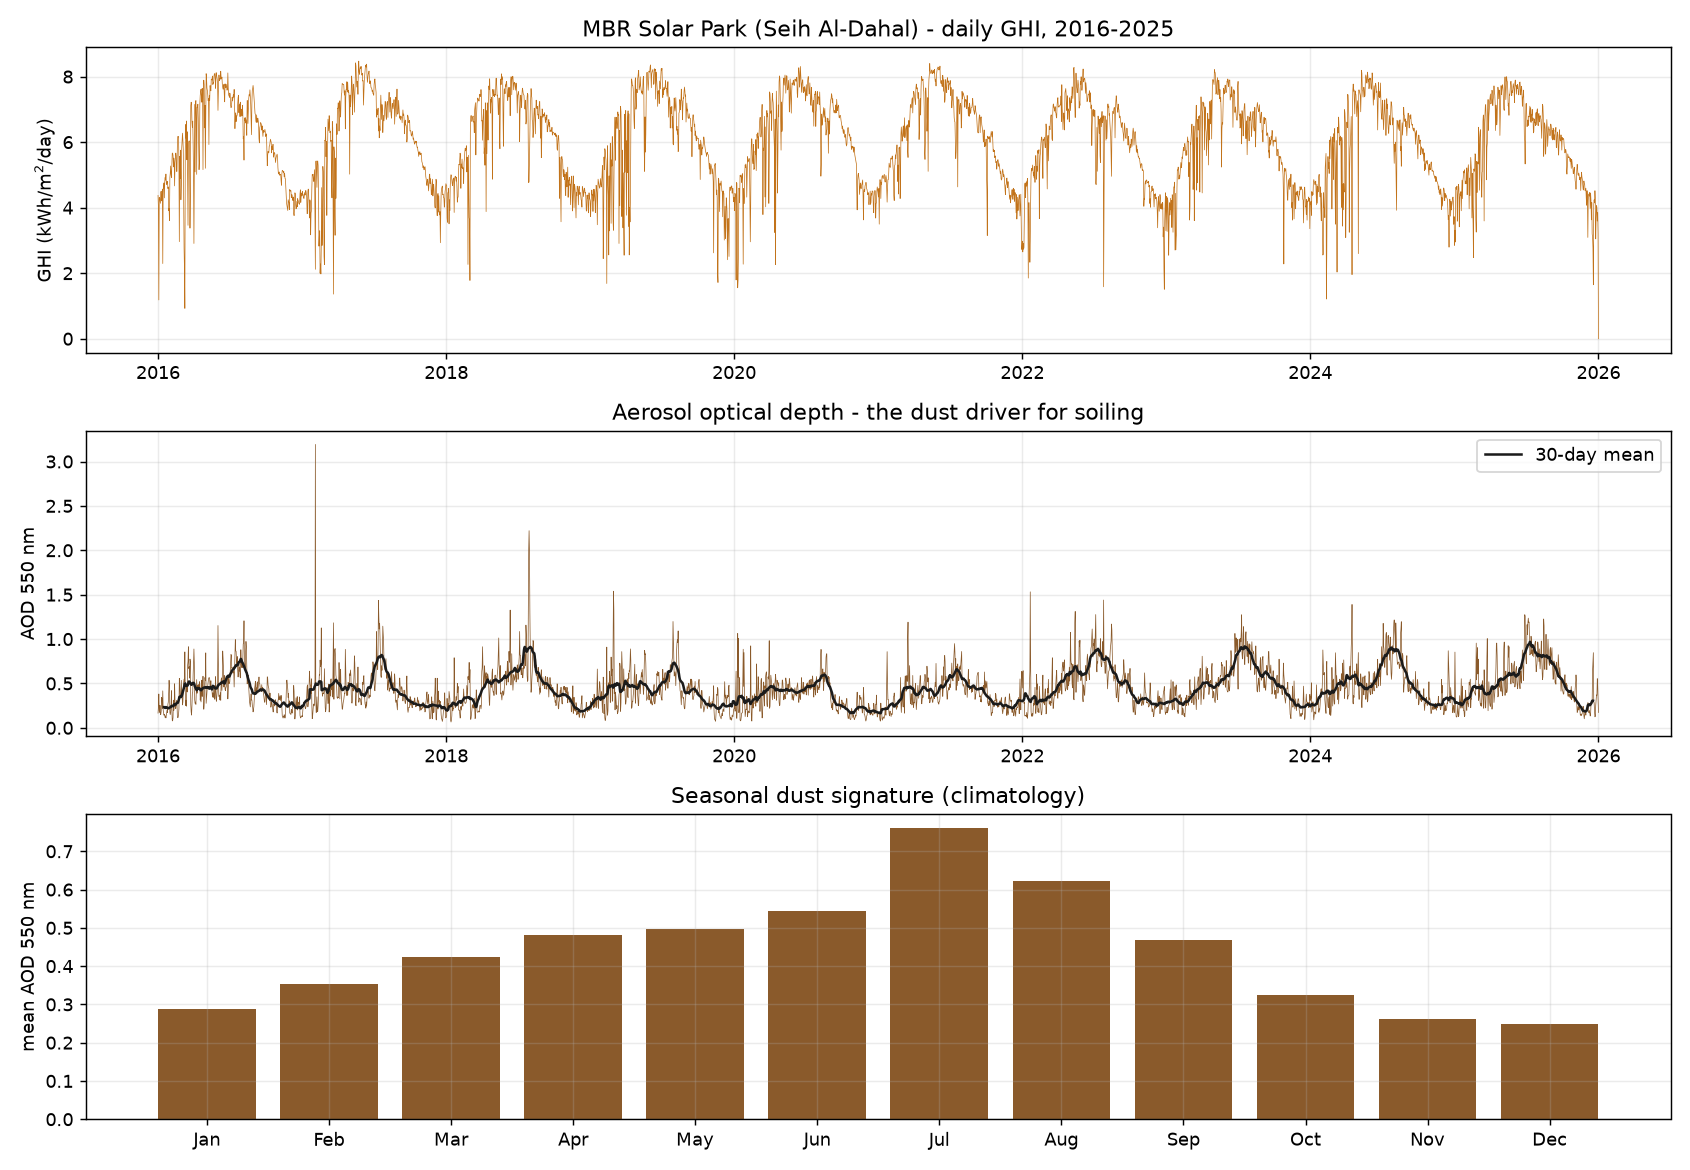
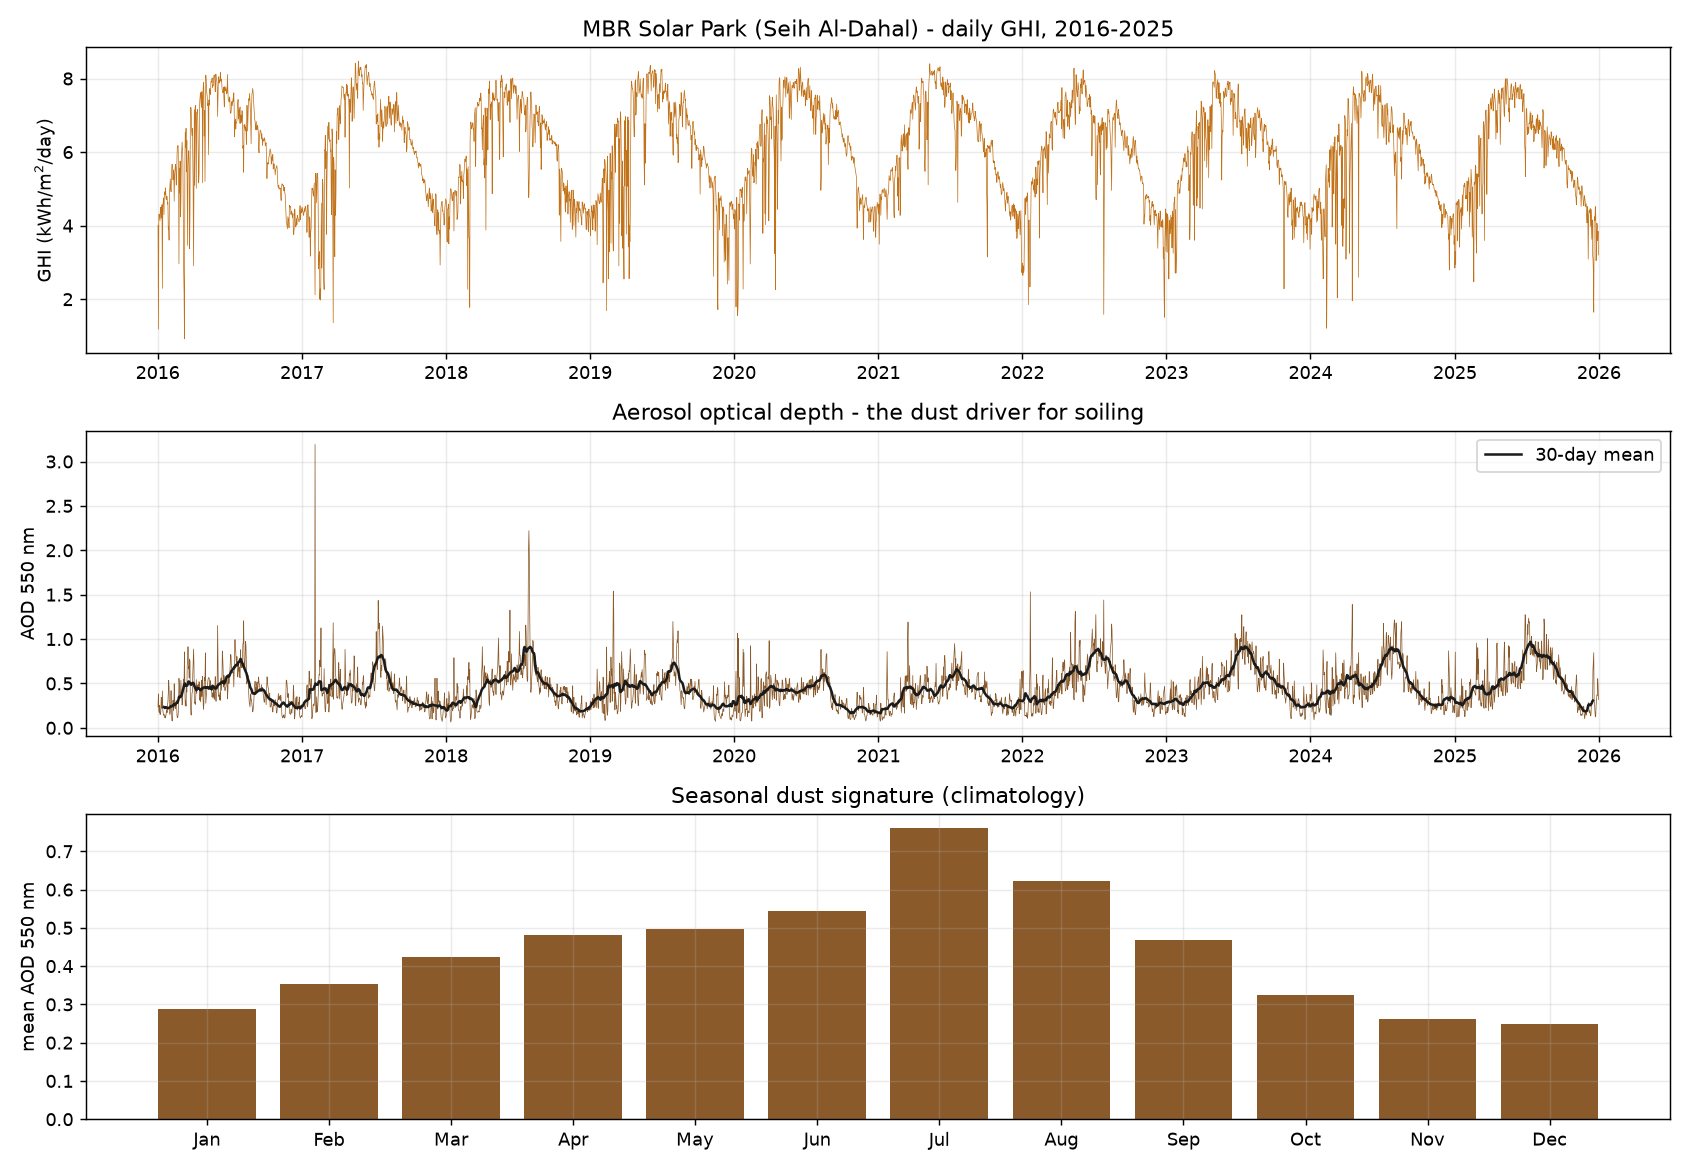
M0 audit: fix timezone boundary bug, remove unjustified tolerance [master]
Audit of the completed M0 found four issues; all fixed. M0 now passes 11/11
acceptance checks (was 10/10) with strictly tighter criteria.

- Timezone boundary bug (real defect): converting UTC to Asia/Dubai left a
  truncated 20-hour day at the start of the record and a phantom 4-hour day in
  the FOLLOWING calendar year. The phantom leaked a spurious year into any
  groupby and understated daily irradiance at both ends. daily_summary() now
  drops incomplete local days by default (complete_days_only=True).

- Unjustified tolerance: the ALLSKY <= CLRSKY check carried a 1.02 fudge that
  was never needed. Measured daily max ratio is 0.9997, so the check now runs
  at 1.00 with no tolerance. (At hourly resolution 438 hours legitimately
  exceed clear-sky via cloud enhancement, max 1.0875; daily totals never do.)

- Check passing for the wrong reason: annual GHI validation used iloc[:-1] to
  drop a supposedly incomplete final year. Every year 2016-2025 is in fact
  complete; the slice was silently deleting the phantom row. Removed, and
  replaced with an explicit "every year is complete (365/366 days)" check.
  Annual GHI is now validated over all 10 years rather than 9.

- Stale docstring on fetch_years() still asserted the API "rejects longer
  hourly spans". Corrected to the payload-size cap.

Also adds the MIT LICENSE file that README and pyproject already claimed.
Tests: 14 -> 16, including two guarding the boundary behaviour.
[…]

diff --git a/rimal/data/power.py b/rimal/data/power.py
@@ -44,6 +44,10 @@ CACHE_DIR = Path(__file__).resolve().parent / "cache"
 
 REQUEST_TIMEOUT_S = 180
 
+#: A complete local day. Used to drop the truncated days that the UTC->local
+#: conversion leaves at each end of the record.
+HOURS_PER_DAY = 24
+
 
 class PowerFetchError(RuntimeError):
     """Raised when NASA POWER returns something we cannot use."""
@@ -135,7 +139,8 @@ def fetch_years(
 ) -> pd.DataFrame:
     """Return a continuous hourly frame spanning ``start_year``..``end_year``.
 
-    Chunked one year per request because the API rejects longer hourly spans.
+    Chunked one year per request to stay inside the API's payload-size cap
+    (see the module docstring); the cap is on size, not span.
     """
     if end_year < start_year:
         raise ValueError(f"end_year {end_year} precedes start_year {start_year}")
@@ -170,11 +175,23 @@ def to_local(frame: pd.DataFrame, site: Site = MBR_SOLAR_PARK) -> pd.DataFrame:
     return local
 
 
-def daily_summary(frame: pd.DataFrame, site: Site = MBR_SOLAR_PARK) -> pd.DataFrame:
+def daily_summary(
+    frame: pd.DataFrame,
+    site: Site = MBR_SOLAR_PARK,
+    *,
+    complete_days_only: bool = True,
+) -> pd.DataFrame:
     """Aggregate hourly data to the daily step the cleaning agent acts on.
 
     Irradiance is summed to Wh/m2/day; drivers are averaged; rainfall is summed
     because it is the natural-cleaning trigger in the Kimber soiling model.
+
+    POWER serves UTC, and Dubai is UTC+4, so converting to local time leaves a
+    truncated day at each end of the record -- including a phantom day in the
+    following calendar year holding only four hours. Those partial days would
+    understate daily irradiance and leak a spurious year into any groupby, so
+    by default only days with a full 24 hours are returned. Pass
+    ``complete_days_only=False`` to keep them.
     """
     local = to_local(frame, site)
     aggregations = {
@@ -189,6 +206,11 @@ def daily_summary(frame: pd.DataFrame, site: Site = MBR_SOLAR_PARK) -> pd.DataFr
         "AOD_55": "mean",
     }
     present = {k: v for k, v in aggregations.items() if k in local.columns}
-    daily = local.resample("D").agg(present)
+    resampled = local.resample("D")
+    daily = resampled.agg(present)
+
+    if complete_days_only:
+        daily = daily.loc[resampled.size() == HOURS_PER_DAY]
+
     daily.index.name = "date_local"
     return daily

diff --git a/scripts/m0_verify.py b/scripts/m0_verify.py
@@ -106,19 +106,33 @@ def main() -> int:
     daily = power.daily_summary(hourly)
     ghi_kwh = daily["ALLSKY_SFC_SW_DWN"] / 1000.0  # Wh/m2 -> kWh/m2
     annual_ghi = ghi_kwh.groupby(ghi_kwh.index.year).sum()
-    # Dubai's global horizontal irradiation is ~2000-2200 kWh/m2/yr.
-    full_years = annual_ghi.iloc[:-1] if len(annual_ghi) > 1 else annual_ghi
-    in_band = full_years.between(1900, 2300).all()
+    day_counts = ghi_kwh.groupby(ghi_kwh.index.year).size()
+
+    # daily_summary() drops partial local days, so every year present must be
+    # whole. If this trips, the boundary handling has regressed.
     check(
-        "annual GHI in the published Dubai band (1900-2300 kWh/m2/yr)",
-        bool(in_band),
-        f"min {full_years.min():.0f}, max {full_years.max():.0f}",
+        "every year is complete (365/366 days)",
+        bool(day_counts.isin([365, 366]).all()),
+        f"day counts {day_counts.min()}-{day_counts.max()} across "
+        f"{len(day_counts)} years ({day_counts.index.min()}-{day_counts.index.max()})",
     )
 
+    # Dubai's global horizontal irradiation is ~2000-2200 kWh/m2/yr.
     check(
-        "ALLSKY never exceeds CLRSKY",
-        bool((daily["ALLSKY_SFC_SW_DWN"] <= daily["CLRSKY_SFC_SW_DWN"] * 1.02).all()),
-        "clear-sky reference bounds measured irradiance",
+        "annual GHI in the published Dubai band (1900-2300 kWh/m2/yr)",
+        bool(annual_ghi.between(1900, 2300).all()),
+        f"min {annual_ghi.min():.0f}, max {annual_ghi.max():.0f} over "
+        f"{len(annual_ghi)} full years",
+    )
+
+    # No tolerance: measured daily irradiation must not exceed the clear-sky
+    # reference. (At hourly resolution it legitimately can, via cloud
+    # enhancement; daily totals must not.)
+    ratio = (daily["ALLSKY_SFC_SW_DWN"] / daily["CLRSKY_SFC_SW_DWN"]).dropna()
+    check(
+        "daily ALLSKY never exceeds CLRSKY (no tolerance)",
+        bool((ratio <= 1.0).all()),
+        f"max ALLSKY/CLRSKY = {ratio.max():.4f}",
     )
 
     # --- Seasonal dust signature ------------------------------------------

diff --git a/tests/test_power.py b/tests/test_power.py
@@ -145,10 +145,33 @@ class TestDerived:
 
     def test_daily_summary_sums_irradiance_and_averages_drivers(self):
         frame = power._parse_response(_payload(hours=48))
-        daily = power.daily_summary(frame)
+        daily = power.daily_summary(frame, complete_days_only=False)
         assert set(daily.columns) == {"ALLSKY_SFC_SW_DWN", "AOD_55"}
         assert daily["AOD_55"].dropna().tolist() == pytest.approx([0.3] * 3)
         assert daily.index.name == "date_local"
+
+    def test_partial_local_days_are_dropped_by_default(self):
+        """The UTC->local shift truncates the first day and invents a phantom
+        day in the next calendar year. Neither may reach the daily frame."""
+        # 48 UTC hours starting 2020-01-01 00:00Z spans three local days in
+        # Dubai (UTC+4): a 20-hour day, a full day, and a 4-hour phantom.
+        frame = power._parse_response(_payload(year=2020, hours=48))
+
+        kept_all = power.daily_summary(frame, complete_days_only=False)
+        assert len(kept_all) == 3
+
+        daily = power.daily_summary(frame)
+        assert len(daily) == 1, "only the one complete local day should survive"
+        assert daily.index[0].date().isoformat() == "2020-01-02"
+
+    def test_complete_days_only_leaves_no_spurious_year(self):
+        """A phantom day would leak an extra year into any groupby."""
+        frame = power._parse_response(_payload(year=2020, hours=48))
+        years = set(power.daily_summary(frame).index.year)
+        assert years == {2020}
+
+        leaky = set(power.daily_summary(frame, complete_days_only=False).index.year)
+        assert 2020 in leaky  # the unfiltered frame is where the phantom lives
 
 
 @pytest.mark.network
